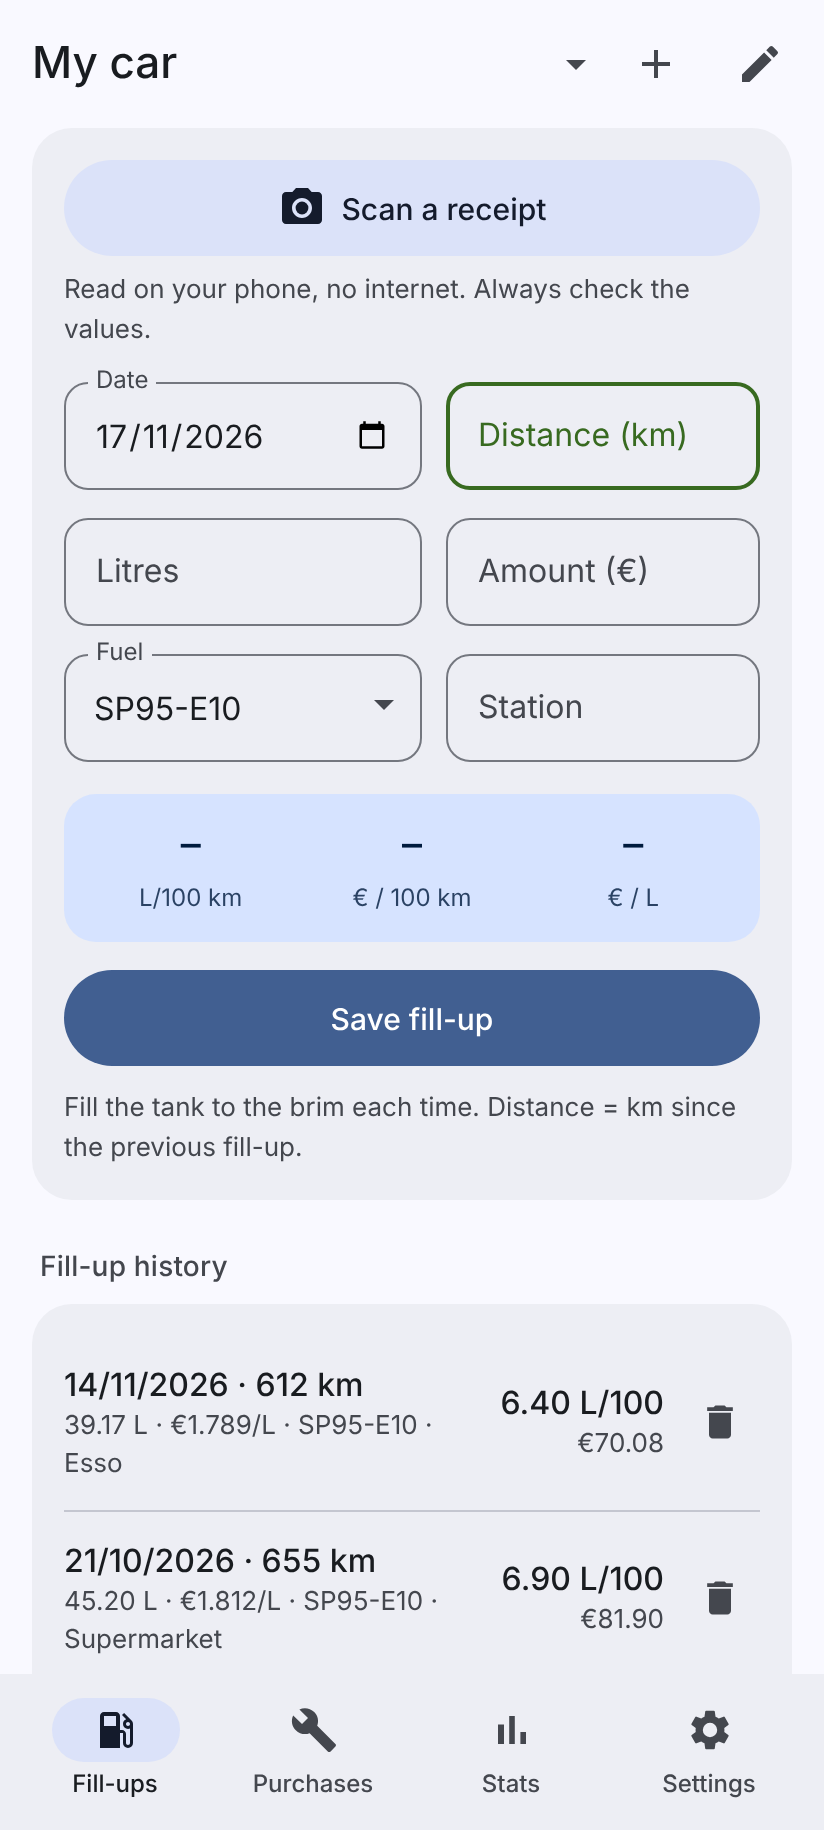
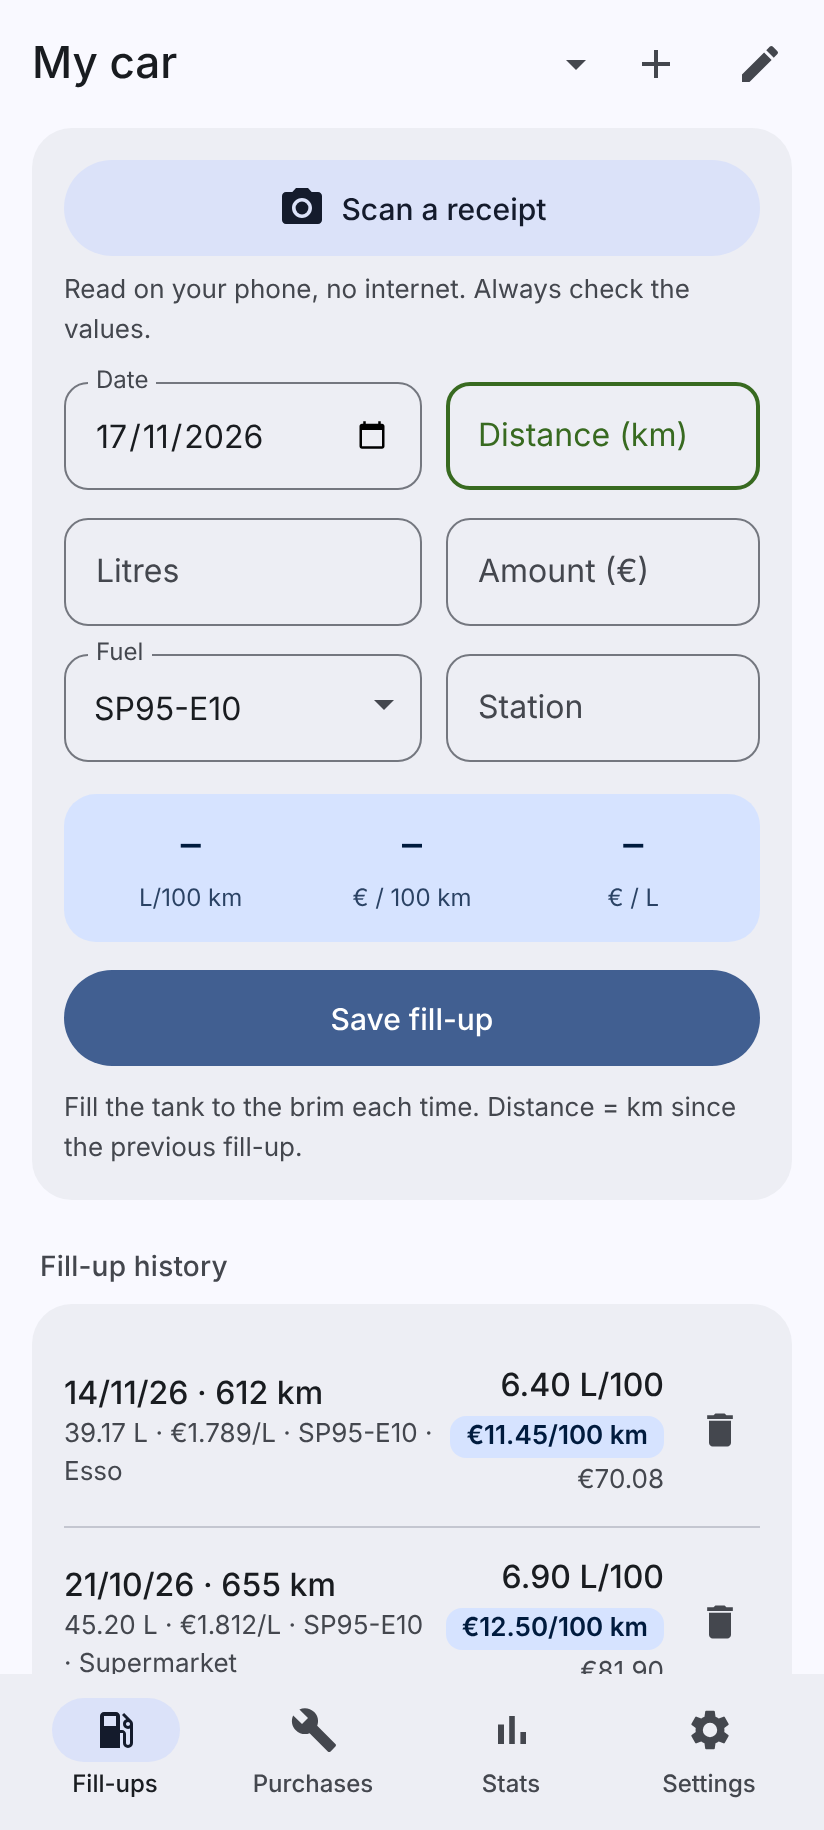
Fill-up history: short date and cost per 100 km; chart bubbles: tap or hold (#9)
Fill-up history (app/src/main/assets/www/index.html)
- New fdateS(): short date with a 2-digit year (order and separator follow the language), used in the history.
- Right column: consumption, then cost per 100 km / 100 mi highlighted in a tinted pill (.row .hl), then the amount.

Chart bubbles - bug fix
- On touch a tapped bubble never closed. wireTip() is rewritten and shared by both charts: a short tap keeps the bubble until the next tap anywhere (bubble or another bar included), which only closes it (document capture listener, tipOpen / tipSwallow); holding (HOLD_MS = 400 ms) shows it while the finger is down and hides it on release or scroll (pointercancel). Mouse hover unchanged.
- Bubble drawn 5% of the screen height higher (translate(-50%, -5vh)).

Help section 10 "Stats charts" in 10 languages (help_q10 / help_a10); README screenshots regenerated.

Claude-Session: https://claude.ai/code/session_01Fn4kavLKaYUtVPqNqqWL2N

diff --git a/app/src/main/assets/www/i18n.js b/app/src/main/assets/www/i18n.js
@@ -142,7 +142,9 @@
     step3: "Étape 3 sur 3",
     back: "Retour",
     help_q9: "Unités et monnaie",
-    help_a9: "Les unités (km ou miles, litres ou gallons) et la monnaie se changent dans Réglages. Les données sont toujours enregistrées en km et en litres : changer d'unité ne change que l'affichage, sans rien perdre. Changer de monnaie ne change que le symbole : les montants ne sont pas convertis."
+    help_a9: "Les unités (km ou miles, litres ou gallons) et la monnaie se changent dans Réglages. Les données sont toujours enregistrées en km et en litres : changer d'unité ne change que l'affichage, sans rien perdre. Changer de monnaie ne change que le symbole : les montants ne sont pas convertis.",
+    help_q10: "Graphiques du bilan",
+    help_a10: "Touche une barre ou un point pour afficher le détail : il reste affiché jusqu'au prochain appui, n'importe où sur l'écran. Si tu maintiens le doigt, le détail suit ton doigt et disparaît quand tu le relâches."
   };
 
   D.en = {
@@ -277,7 +279,9 @@
     step3: "Step 3 of 3",
     back: "Back",
     help_q9: "Units and currency",
-    help_a9: "Units (km or miles, litres or gallons) and the currency can be changed in Settings. Data is always stored in km and litres, so switching units only changes what is displayed, with nothing lost. Changing the currency only changes the symbol: amounts are not converted."
+    help_a9: "Units (km or miles, litres or gallons) and the currency can be changed in Settings. Data is always stored in km and litres, so switching units only changes what is displayed, with nothing lost. Changing the currency only changes the symbol: amounts are not converted.",
+    help_q10: "Stats charts",
+    help_a10: "Tap a bar or a point to show its details: they stay on screen until your next tap, anywhere on the screen. If you hold your finger down, the details follow your finger and disappear when you let go."
   };
 
   D.es = {
@@ -412,7 +416,9 @@
     step3: "Paso 3 de 3",
     back: "Atrás",
     help_q9: "Unidades y moneda",
-    help_a9: "Las unidades (km o millas, litros o galones) y la moneda se cambian en Ajustes. Los datos se guardan siempre en km y litros: cambiar de unidad solo cambia lo que se muestra, sin perder nada. Cambiar de moneda solo cambia el símbolo: los importes no se convierten."
+    help_a9: "Las unidades (km o millas, litros o galones) y la moneda se cambian en Ajustes. Los datos se guardan siempre en km y litros: cambiar de unidad solo cambia lo que se muestra, sin perder nada. Cambiar de moneda solo cambia el símbolo: los importes no se convierten.",
+    help_q10: "Gráficos del resumen",
+    help_a10: "Toca una barra o un punto para ver el detalle: se queda en pantalla hasta el siguiente toque, en cualquier parte de la pantalla. Si mantienes el dedo, el detalle sigue al dedo y desaparece al soltarlo."
   };
 
   D.de = {
@@ -547,7 +553,9 @@
     step3: "Schritt 3 von 3",
     back: "Zurück",
     help_q9: "Einheiten und Währung",
-    help_a9: "Einheiten (km oder Meilen, Liter oder Gallonen) und Währung lassen sich in den Einstellungen ändern. Die Daten werden immer in km und Litern gespeichert: Ein Wechsel der Einheit ändert nur die Anzeige, ohne Verlust. Ein Wechsel der Währung ändert nur das Symbol: Beträge werden nicht umgerechnet."
+    help_a9: "Einheiten (km oder Meilen, Liter oder Gallonen) und Währung lassen sich in den Einstellungen ändern. Die Daten werden immer in km und Litern gespeichert: Ein Wechsel der Einheit ändert nur die Anzeige, ohne Verlust. Ein Wechsel der Währung ändert nur das Symbol: Beträge werden nicht umgerechnet.",
+    help_q10: "Diagramme der Auswertung",
+    help_a10: "Auf einen Balken oder Punkt tippen, um die Details zu sehen: Sie bleiben sichtbar bis zum nächsten Tippen, egal wo auf dem Bildschirm. Wird der Finger gedrückt gehalten, folgen die Details dem Finger und verschwinden beim Loslassen."
   };
 
   D.it = {
@@ -682,7 +690,9 @@
     step3: "Passo 3 di 3",
     back: "Indietro",
     help_q9: "Unità e valuta",
-    help_a9: "Le unità (km o miglia, litri o galloni) e la valuta si cambiano in Impostazioni. I dati sono sempre salvati in km e litri: cambiare unità modifica solo la visualizzazione, senza perdere nulla. Cambiare valuta modifica solo il simbolo: gli importi non vengono convertiti."
+    help_a9: "Le unità (km o miglia, litri o galloni) e la valuta si cambiano in Impostazioni. I dati sono sempre salvati in km e litri: cambiare unità modifica solo la visualizzazione, senza perdere nulla. Cambiare valuta modifica solo il simbolo: gli importi non vengono convertiti.",
+    help_q10: "Grafici del riepilogo",
+    help_a10: "Tocca una barra o un punto per vedere il dettaglio: resta visibile fino al tocco successivo, in qualsiasi punto dello schermo. Se tieni premuto il dito, il dettaglio segue il dito e scompare quando lo sollevi."
   };
 
   D.pt = {
@@ -817,7 +827,9 @@
     step3: "Passo 3 de 3",
     back: "Voltar",
     help_q9: "Unidades e moeda",
-    help_a9: "As unidades (km ou milhas, litros ou galões) e a moeda alteram-se em Definições. Os dados são sempre guardados em km e litros: mudar de unidade só muda o que é mostrado, sem perder nada. Mudar de moeda só muda o símbolo: os montantes não são convertidos."
+    help_a9: "As unidades (km ou milhas, litros ou galões) e a moeda alteram-se em Definições. Os dados são sempre guardados em km e litros: mudar de unidade só muda o que é mostrado, sem perder nada. Mudar de moeda só muda o símbolo: os montantes não são convertidos.",
+    help_q10: "Gráficos do resumo",
+    help_a10: "Toca numa barra ou num ponto para ver o detalhe: fica visível até ao toque seguinte, em qualquer parte do ecrã. Se mantiveres o dedo, o detalhe segue o dedo e desaparece quando o levantas."
   };
 
   D.nl = {
@@ -952,7 +964,9 @@
     step3: "Stap 3 van 3",
     back: "Terug",
     help_q9: "Eenheden en valuta",
-    help_a9: "De eenheden (km of mijlen, liters of gallons) en de valuta wijzig je in Instellingen. Gegevens worden altijd in km en liters opgeslagen: een andere eenheid verandert alleen de weergave, er gaat niets verloren. Een andere valuta verandert alleen het symbool: bedragen worden niet omgerekend."
+    help_a9: "De eenheden (km of mijlen, liters of gallons) en de valuta wijzig je in Instellingen. Gegevens worden altijd in km en liters opgeslagen: een andere eenheid verandert alleen de weergave, er gaat niets verloren. Een andere valuta verandert alleen het symbool: bedragen worden niet omgerekend.",
+    help_q10: "Grafieken van het overzicht",
+    help_a10: "Tik op een balk of punt om de details te zien: ze blijven staan tot je opnieuw tikt, waar dan ook op het scherm. Houd je je vinger erop, dan volgen de details je vinger en verdwijnen ze als je loslaat."
   };
 
   D.pl = {
@@ -1087,7 +1101,9 @@
     step3: "Krok 3 z 3",
     back: "Wstecz",
     help_q9: "Jednostki i waluta",
-    help_a9: "Jednostki (km lub mile, litry lub galony) i walutę zmienisz w Ustawieniach. Dane są zawsze zapisywane w km i litrach: zmiana jednostek zmienia tylko wyświetlanie, nic nie ginie. Zmiana waluty zmienia tylko symbol: kwoty nie są przeliczane."
+    help_a9: "Jednostki (km lub mile, litry lub galony) i walutę zmienisz w Ustawieniach. Dane są zawsze zapisywane w km i litrach: zmiana jednostek zmienia tylko wyświetlanie, nic nie ginie. Zmiana waluty zmienia tylko symbol: kwoty nie są przeliczane.",
+    help_q10: "Wykresy podsumowania",
+    help_a10: "Dotknij słupka lub punktu, aby zobaczyć szczegóły: zostają na ekranie do następnego dotknięcia w dowolnym miejscu. Jeśli przytrzymasz palec, szczegóły podążają za palcem i znikają po jego puszczeniu."
   };
 
   D.tr = {
@@ -1222,7 +1238,9 @@
     step3: "Adım 3 / 3",
     back: "Geri",
     help_q9: "Birimler ve para birimi",
-    help_a9: "Birimler (km veya mil, litre veya galon) ve para birimi Ayarlar'dan değiştirilir. Veriler her zaman km ve litre olarak kaydedilir: birim değiştirmek yalnızca görüntüyü değiştirir, hiçbir şey kaybolmaz. Para birimini değiştirmek yalnızca simgeyi değiştirir: tutarlar dönüştürülmez."
+    help_a9: "Birimler (km veya mil, litre veya galon) ve para birimi Ayarlar'dan değiştirilir. Veriler her zaman km ve litre olarak kaydedilir: birim değiştirmek yalnızca görüntüyü değiştirir, hiçbir şey kaybolmaz. Para birimini değiştirmek yalnızca simgeyi değiştirir: tutarlar dönüştürülmez.",
+    help_q10: "Özet grafikleri",
+    help_a10: "Ayrıntıları görmek için bir çubuğa veya noktaya dokun: ekranın herhangi bir yerine yeniden dokunana kadar görünür kalır. Parmağını basılı tutarsan ayrıntılar parmağını izler ve bıraktığında kaybolur."
   };
 
   D.ro = {
@@ -1357,7 +1375,9 @@
     step3: "Pasul 3 din 3",
     back: "Înapoi",
     help_q9: "Unități și monedă",
-    help_a9: "Unitățile (km sau mile, litri sau galoane) și moneda se schimbă în Setări. Datele sunt salvate mereu în km și litri: schimbarea unității schimbă doar afișarea, fără să se piardă nimic. Schimbarea monedei schimbă doar simbolul: sumele nu sunt convertite."
+    help_a9: "Unitățile (km sau mile, litri sau galoane) și moneda se schimbă în Setări. Datele sunt salvate mereu în km și litri: schimbarea unității schimbă doar afișarea, fără să se piardă nimic. Schimbarea monedei schimbă doar simbolul: sumele nu sunt convertite.",
+    help_q10: "Graficele rezumatului",
+    help_a10: "Atinge o bară sau un punct pentru a vedea detaliile: rămân afișate până la următoarea atingere, oriunde pe ecran. Dacă ții degetul apăsat, detaliile urmăresc degetul și dispar când îl ridici."
   };
 
   const api = { LANGS, D };

diff --git a/app/src/main/assets/www/index.html b/app/src/main/assets/www/index.html
@@ -83,6 +83,7 @@ textarea{width:100%;padding:12px;border:1px solid var(--outline);border-radius:1
 .row .t{font-weight:500}
 .row .m{font-size:13px;color:var(--on-surf-v);overflow-wrap:anywhere}
 .row .r{text-align:right;white-space:nowrap}
+.row .hl{display:inline-block;margin:3px 0 2px;padding:1px 8px;border-radius:8px;background:var(--primary-c);color:var(--on-primary-c);font-size:13px;font-weight:600}
 .del{border:0;background:transparent;color:var(--on-surf-v);width:40px;height:40px;border-radius:20px;display:grid;place-items:center;padding:0;flex:none}
 .del svg{width:22px;height:22px}
 .del.armed{width:auto;padding:0 14px;background:var(--error);color:var(--on-error);font:500 13px var(--font)}
@@ -103,7 +104,7 @@ textarea{width:100%;padding:12px;border:1px solid var(--outline);border-radius:1
 .chart svg{width:100%;height:auto;display:block;touch-action:pan-y}
 .chart text{fill:var(--on-surf-v);font-size:11px}
 .chart .grid{stroke:var(--outline-v);stroke-width:1}
-.tip{position:absolute;top:0;pointer-events:none;background:var(--inverse);color:var(--on-inverse);font-size:12px;padding:6px 10px;border-radius:8px;white-space:nowrap;transform:translateX(-50%);display:none;z-index:2;line-height:1.4}
+.tip{position:absolute;top:0;pointer-events:none;background:var(--inverse);color:var(--on-inverse);font-size:12px;padding:6px 10px;border-radius:8px;white-space:nowrap;transform:translate(-50%,-5vh);display:none;z-index:2;line-height:1.4}
 .sum{font-size:14px;margin-top:10px;color:var(--on-surf-v)}
 .sum b{color:var(--on-surf)}
 
@@ -280,6 +281,7 @@ body.kb #st{bottom:16px}
     <details><summary data-i18n="help_q7"></summary><div class="note" data-i18n-html="help_a7"></div></details>
     <details><summary data-i18n="help_q8"></summary><div class="note" data-i18n-html="help_a8"></div></details>
     <details><summary data-i18n="help_q9"></summary><div class="note" data-i18n-html="help_a9"></div></details>
+    <details><summary data-i18n="help_q10"></summary><div class="note" data-i18n-html="help_a10"></div></details>
   </div>
 </section>
 </main>
@@ -361,6 +363,7 @@ const moneyLabel=code=>curSym(code)+' — '+curName(code);
 // date locale (toISOString donnerait la date UTC : la veille juste après minuit)
 const today=()=>{const d=new Date(),p=n=>String(n).padStart(2,'0');return d.getFullYear()+'-'+p(d.getMonth()+1)+'-'+p(d.getDate())};
 const fdate=s=>{try{return new Date(s+'T12:00:00').toLocaleDateString(LOC)}catch(e){return s}};
+const fdateS=s=>{try{return new Date(s+'T12:00:00').toLocaleDateString(LOC,{day:'2-digit',month:'2-digit',year:'2-digit'})}catch(e){return s}};   // jj/mm/aa
 const esc=s=>String(s||'').replace(/[&<>"]/g,c=>({'&':'&amp;','<':'&lt;','>':'&gt;','"':'&quot;'}[c]));
 // valeurs enregistrées dans le fichier (ne changent pas avec la langue) et leur libellé affiché
 const FUELV=['SP95-E10','SP95','SP98','E85','GPL','Gazole'];
@@ -719,7 +722,7 @@ const TRASH='<svg class="i" viewBox="0 0 24 24"><path d="M6 19c0 1.1.9 2 2 2h8c1
 function render(){
   renderCars();
   const fl=$('fl-list');
-  fl.innerHTML=FU().length?FU().map(f=>`<div class="row"><div class="l"><div class="t">${fdate(f.d)} · ${fmt(dist(f.k),0)} ${DU()}</div><div class="m">${fmt(vol(f.l))} ${VU()} · ${money(f.e/vol(f.l),3)}/${VU()} · ${esc(fuelLabel(f.c))}${f.s?' · '+esc(f.s):''}</div></div><div class="r"><div class="t">${fmtCons(cons(f.k,f.l))} ${UNIT==='km'?'L/100':'mpg'}</div><div class="m">${money(f.e)}</div></div><button class="del" data-k="fuel" data-i="${esc(f.id)}" aria-label="${esc(tx('del'))}">${TRASH}</button></div>`).join(''):'<div class="empty">'+esc(tx('empty_fuel'))+'</div>';
+  fl.innerHTML=FU().length?FU().map(f=>`<div class="row"><div class="l"><div class="t">${fdateS(f.d)} · ${fmt(dist(f.k),0)} ${DU()}</div><div class="m">${fmt(vol(f.l))} ${VU()} · ${money(f.e/vol(f.l),3)}/${VU()} · ${esc(fuelLabel(f.c))}${f.s?' · '+esc(f.s):''}</div></div><div class="r"><div class="t">${fmtCons(cons(f.k,f.l))} ${UNIT==='km'?'L/100':'mpg'}</div><div class="hl">${money(f.e/dist(f.k)*100)}/100 ${DU()}</div><div class="m">${money(f.e)}</div></div><button class="del" data-k="fuel" data-i="${esc(f.id)}" aria-label="${esc(tx('del'))}">${TRASH}</button></div>`).join(''):'<div class="empty">'+esc(tx('empty_fuel'))+'</div>';
   const bl=$('bl-list');
   bl.innerHTML=BU().length?BU().map(b=>`<div class="row"><div class="l"><div class="t">${esc(b.n)||esc(catLabel(b.c))}</div><div class="m">${fdate(b.d)} · ${esc(catLabel(b.c))}${b.k?' · '+fmt(dist(b.k),0)+' '+DU():''}${b.s?' · '+esc(b.s):''}</div></div><div class="r"><div class="t">${money(b.e)}</div></div><button class="del" data-k="buys" data-i="${esc(b.id)}" aria-label="${esc(tx('del'))}">${TRASH}</button></div>`).join(''):'<div class="empty">'+esc(tx('empty_buys'))+'</div>';
   document.querySelectorAll('.del').forEach(b=>b.onclick=()=>delClick(b.dataset.k,+b.dataset.i,b));
@@ -797,11 +800,30 @@ function niceTicks(lo,hi,n){
   return t;
 }
 // Détail d'un graphique : souris = au survol ; doigt = un appui OU un maintien l'affiche, et il reste jusqu'à un appui ailleurs.
+// Bulles d'information des graphiques, au doigt :
+// - appui court : la bulle reste affichée ; l'appui suivant, n'importe où sur l'écran (bulle comprise), la cache ;
+// - appui maintenu (HOLD_MS) : la bulle suit le doigt et disparaît quand on le relâche (ou quand on fait défiler).
+// À la souris : la bulle suit le pointeur et disparaît quand il quitte le graphique.
+const HOLD_MS=400;
+let tipOpen=null,tipSwallow=null;   // bulle restée affichée ; appui qui vient de la fermer (ne doit rien rouvrir)
+document.addEventListener('pointerdown',e=>{if(tipOpen){const h=tipOpen;tipOpen=null;tipSwallow=e.pointerId;h()}},true);
+document.addEventListener('pointerup',()=>{tipSwallow=null});
+document.addEventListener('pointercancel',()=>{tipSwallow=null});
 function wireTip(svg,show,hide){
-  const touch=e=>e.pointerType==='touch'||e.pointerType==='pen';
-  svg.addEventListener('pointerdown',show);
-  svg.addEventListener('pointermove',e=>{if(!touch(e)||e.buttons)show(e)});
-  svg.addEventListener('pointerleave',e=>{if(!touch(e))hide()});
+  const tip=svg.parentNode.querySelector('.tip'),touch=e=>e.pointerType==='touch'||e.pointerType==='pen';
+  let down=null;   // appui en cours sur ce graphique : {id, t}
+  svg.addEventListener('pointerdown',e=>{
+    if(tipSwallow===e.pointerId)return;
+    down={id:e.pointerId,t:e.timeStamp};show(e);
+  });
+  svg.addEventListener('pointermove',e=>{if(down?down.id===e.pointerId:!touch(e)&&!e.buttons)show(e)});
+  const end=e=>{
+    if(!down||down.id!==e.pointerId)return;
+    const held=e.type==='pointercancel'||e.timeStamp-down.t>=HOLD_MS;down=null;
+    if(held||tip.style.display!=='block')hide();else tipOpen=hide;
+  };
+  svg.addEventListener('pointerup',end);svg.addEventListener('pointercancel',end);
+  svg.addEventListener('pointerleave',e=>{if(!touch(e)&&!down&&tipOpen!==hide)hide()});
   svg.addEventListener('contextmenu',e=>e.preventDefault());
 }
 document.addEventListener('pointerdown',e=>{
